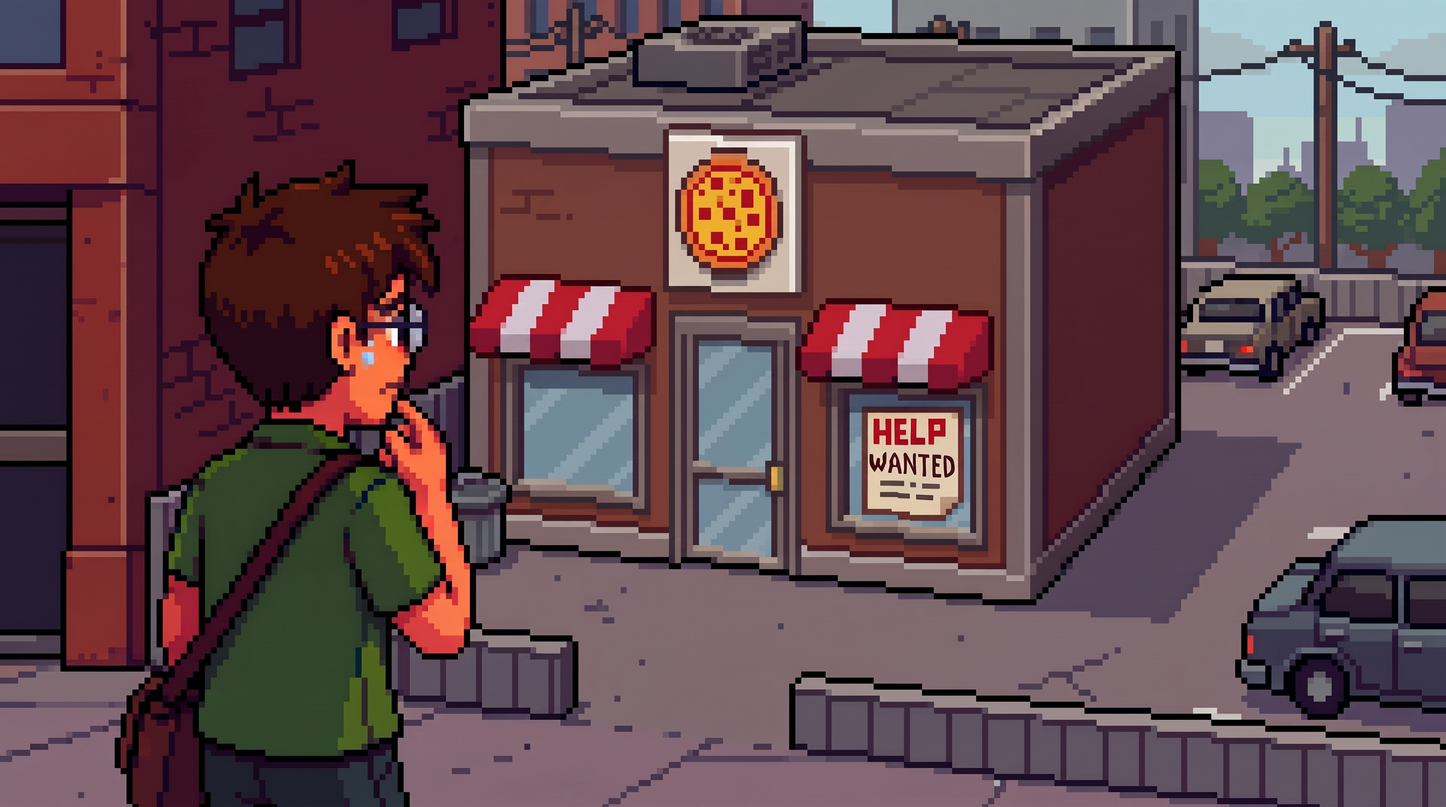
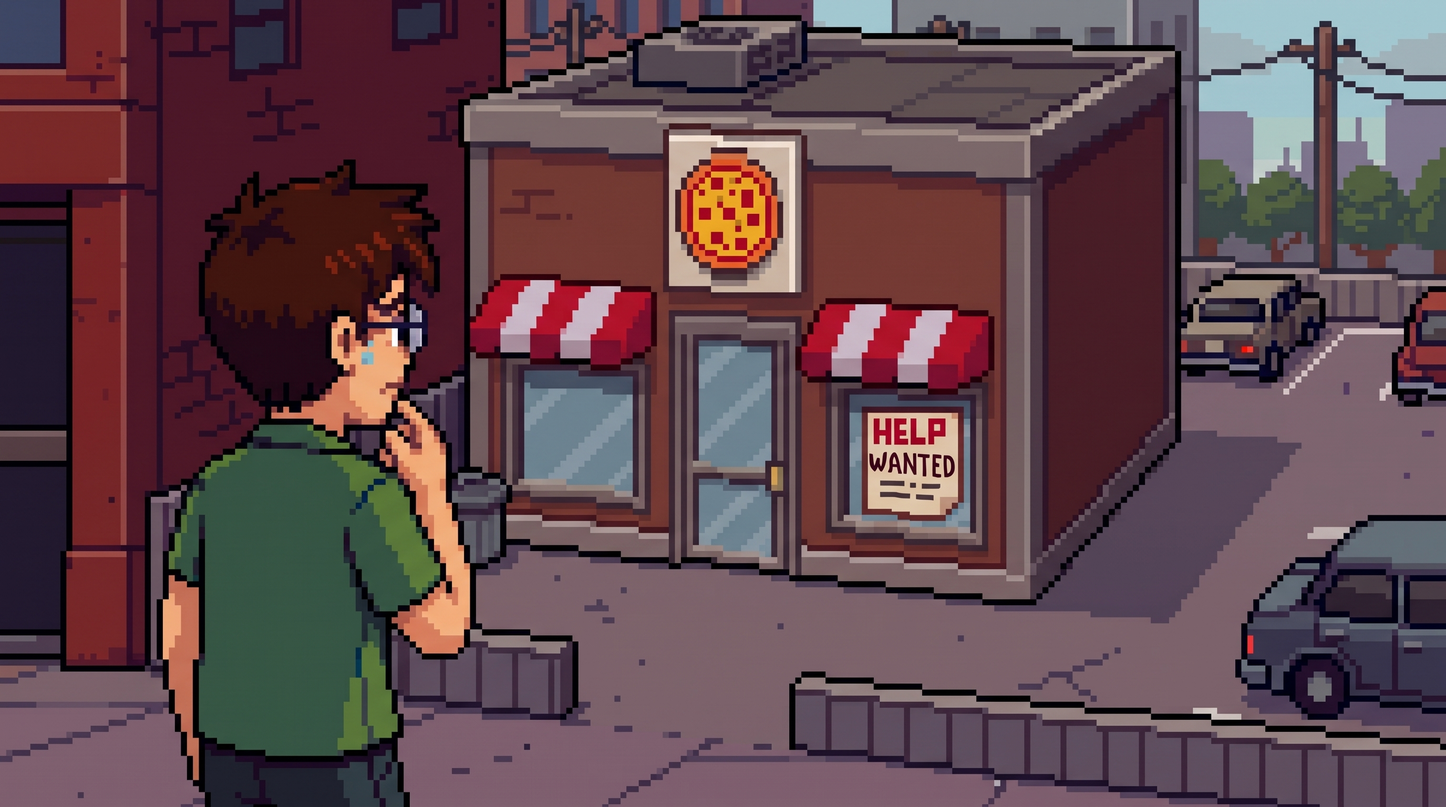
Updated cutscene slides + minor tweaks to levels

Changed region(s): [[0.0625, 0.3438, 0.3438, 1.0], [0.5938, 0.5625, 0.6562, 0.5938]]

diff --git a/src/game/utilities/SlideDeck.ts b/src/game/utilities/SlideDeck.ts
@@ -144,9 +144,53 @@ export const PIZZA_CUTSCENE_SLIDES: CutsceneSlide[] = [
     }
 ];
 
+export const WAREHOUSE_CUTSCENE_SLIDES: CutsceneSlide[] = [
+    {
+        textureKey: "outside_warehouse",
+        text: "Slamazon, huh? Well, a delivery job can't be that bad...",
+        textColor: '#ffffff',
+        zoom: 1,
+        panX: 0,
+        panY: 0,
+    },
+    {
+        textureKey: "entering_warehouse",
+        text: "YOU! New guy! We're way behind on deliveries and I got an ultra high priority box right in this neighborhood!",
+        textColor: '#ffffff',
+        zoom: 1,
+        panX: 0,
+        panY: 0,
+    },
+    {
+        textureKey: "entering_warehouse",
+        text: "Get out on the road and start running packages NOW!",
+        textColor: '#ffffff',
+        zoom: 1,
+        panX: 0,
+        panY: 0,
+    },
+    {
+        textureKey: "entering_warehouse",
+        text: "Wait, on foot?! Through oncoming traffic?!",
+        textColor: '#ffffff',
+        zoom: 1,
+        panX: 0,
+        panY: 0,
+    },
+    {
+        textureKey: "entering_warehouse",
+        text: "Truck's full and the clock's ticking! Dodge those cars and get moving, rookie!",
+        textColor: '#ffffff',
+        zoom: 1,
+        panX: 0,
+        panY: 0,
+    }
+];
+
 export const CITY_DOOR_CUTSCENES: Record<string, CutsceneSlide[]> = {
     Battle_in_Bank: BANK_CUTSCENE_SLIDES,
-    PizzaShop: PIZZA_CUTSCENE_SLIDES
+    PizzaShop: PIZZA_CUTSCENE_SLIDES,
+    Runner: WAREHOUSE_CUTSCENE_SLIDES
 };
 
 export const ENDING_CUTSCENE: CutscenePayload = {

diff --git a/src/game/scenes/City.ts b/src/game/scenes/City.ts
@@ -26,14 +26,12 @@ export class City extends Scene {
     {
         const bankCompleted = Boolean(this.registry.get("bankCompleted"));
         const pizzaCompleted = Boolean(this.registry.get("pizzaCompleted"));
-        const drivingCompleted = Boolean(
-            this.registry.get("drivingCompleted") || this.registry.get("runnerCompleted")
+        const runnerCompleted = Boolean(this.registry.get("runnerCompleted")
         );
 
-        if (bankCompleted && pizzaCompleted && drivingCompleted) {
+        if (bankCompleted && pizzaCompleted && runnerCompleted) {
             this.registry.set("bankCompleted", false);
             this.registry.set("pizzaCompleted", false);
-            this.registry.set("drivingCompleted", false);
             this.registry.set("runnerCompleted", false);
 
             this.scene.start("Cutscene", ENDING_CUTSCENE);
@@ -68,7 +66,7 @@ export class City extends Scene {
         if (pizzaCompleted) {
             blockedDoors.PizzaShop = "You already finished your shift at the pizza shop!";
         }
-        if (drivingCompleted) {
+        if (runnerCompleted) {
             blockedDoors.Runner = "You already finished your delivery shift!";
         }
 

diff --git a/src/game/scenes/Preloader.ts b/src/game/scenes/Preloader.ts
@@ -55,6 +55,8 @@ export class Preloader extends Scene
         this.load.image("entering_bank", "/assets/cutscene_slides/entering the bank.jpg");
         this.load.image("outside_pizza", "/assets/cutscene_slides/outside the pizza place.jpg");
         this.load.image("entering_pizza", "/assets/cutscene_slides/entering the pizza place.jpg");
+        this.load.image("outside_warehouse", "/assets/cutscene_slides/outside the warehouse.jpg");
+        this.load.image("entering_warehouse", "/assets/cutscene_slides/entering the warehouse.jpg");
         this.load.image("getting_back_home", "/assets/cutscene_slides/getting back home.jpg");
         this.load.image("frustrated", "/assets/cutscene_slides/frustrated.jpg");
         this.load.image("inspiration", "/assets/cutscene_slides/inspiration.jpg");

diff --git a/src/game/scenes/Runner.ts b/src/game/scenes/Runner.ts
@@ -194,7 +194,6 @@ export class Runner extends Scene {
         this.player.setVelocity(0, 0);
 
         if (won) {
-            this.registry.set("drivingCompleted", true);
             this.registry.set("runnerCompleted", true);
         }
 

diff --git a/src/game/scenes/PizzaShop.ts b/src/game/scenes/PizzaShop.ts
@@ -56,7 +56,7 @@ const orders: PizzaRecipe[] = [
     }
 ];
 
-const ORDER_SECONDS = 8;
+const ORDER_SECONDS = 6;
 
 export class PizzaShop extends Scene {
     private orderIndex = 0;
